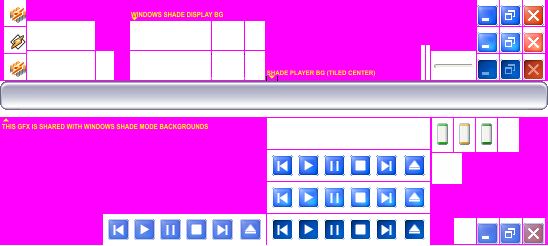
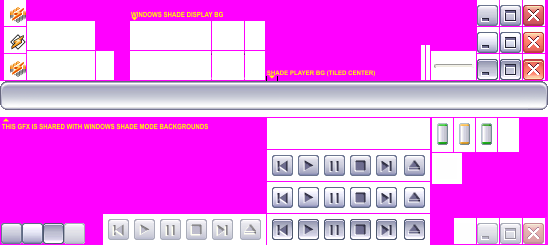
added silver theme shade player graphics
looks kinda... uncanney with the antialiasing, expect a redesign
also fuck the vis tag

diff --git a/WinampXP/scripts/shadeplayer.m b/WinampXP/scripts/shadeplayer.m
@@ -5,7 +5,7 @@ Function unloadShadePlayer();
 
 Global Group ScriptGroup, MainGroupShade, DisplayGroupShade, MainGroupMainPlayer, MainGroupPlayerDisplay;
 Global Button VisMenuEntry1, VisMenuEntry2, VisMenuEntry3, ShadeMainMenu;
-Global GuiObject DisplayTimeShade, Visualization, DisplayTimeMainPlayer;
+Global GuiObject DisplayTimeShade, DisplayTimeMainPlayer, Visualization;
 Global int timemodestring;
 
 Global Text Title1, Title2, Title3;
@@ -31,6 +31,8 @@ initShadePlayer() {
   ShadeMainMenu = MainGroupShade.getObject("player.button.mainmenu");
   
   Visualization = DisplayGroupShade.getObject("shade.vis");
+  /*
+  //don't think so
   Visualization.setXmlParam("colorallbands", "255,255,255");
   Visualization.setXmlParam("colorbandpeak", "255,255,255");
 	Visualization.setXmlParam("colorosc1", "255,255,255");
@@ -38,6 +40,7 @@ initShadePlayer() {
 	Visualization.setXmlParam("colorosc3", "255,255,255");
 	Visualization.setXmlParam("colorosc4", "255,255,255");
 	Visualization.setXmlParam("colorosc5", "255,255,255");
+  */
 
   timemodestring = getPrivateInt(getSkinName(), "timemodestring", timemodestring);
 
